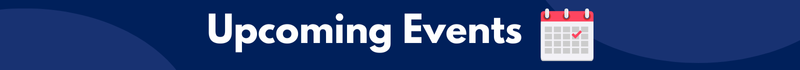
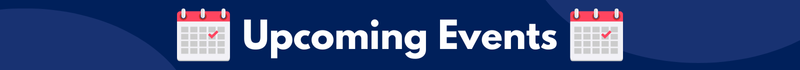
Added more headers

Changed region(s): [[0.2188, 0.1143, 0.7812, 0.8857], [0.4062, 0.2, 0.4375, 0.2857]]

diff --git a/emailDrafts/imageHeaderDraft.html b/emailDrafts/imageHeaderDraft.html
@@ -125,7 +125,7 @@
 <!--              -->
 
 
-<img src="../imgs/intSchol.png" />
+<img src="../imgs/intScholar.png" />
 <!--            -->
 <!-- Part Three -->
 <!--            -->
